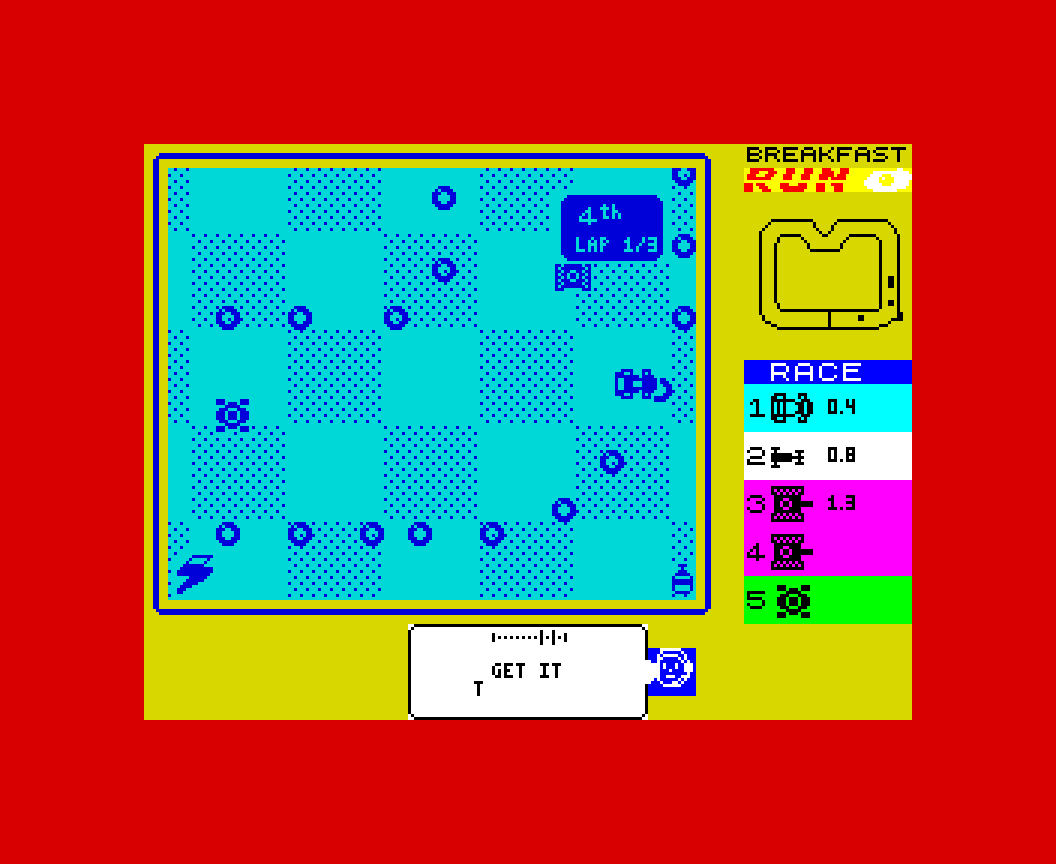
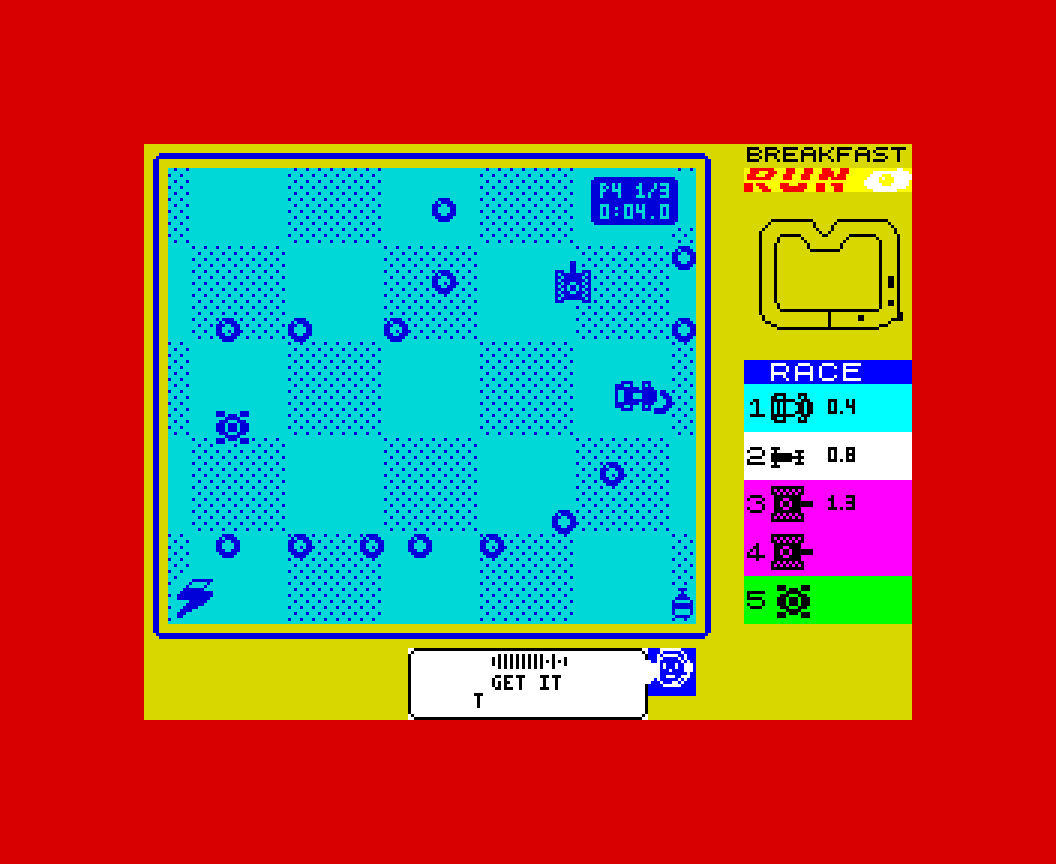
The window a row taller: 176 x 152
The buffer-strip tables moved to the top of the room under 0x8000 (LOWTAB); the frame,
gauge, NOS canisters, bubble (three rows) and strip moved down a row; the copier is 152
lines. Alone: 200 pictures at 3 frames / 113 at 4. All tests pass.

Claude-Session: https://claude.ai/code/session_01476U86GiAC8cKs57wAJvc3

diff --git a/tests/drive_test.py b/tests/drive_test.py
@@ -116,12 +116,12 @@ def screen_text(sp, row, col, n):
 
 def frame_ok(sp):
     # the slim frame (layout G3): a 2-pixel line, rounded, 3 pixels of table inside it
-    bits = screen_bits(sp)
-    lines = bits[3, 5:187].all() and bits[4, 4:188].all() and bits[155, 4:188].all() and bits[156, 5:187].all()
-    sides = bits[5:155, 3:5].all() and bits[5:155, 187:189].all()
-    gap = not bits[5:8, 5:187].any() and not bits[152:155, 5:187].any() and not bits[8:152, 5:8].any() and not bits[8:152, 184:187].any()
-    outside = not bits[0:3, 0:192].any() and not bits[3, 0:5].any() and not bits[157:160, 0:192].any() and not bits[5:155, 0:3].any()
-    attrs = all(sp.read8(0x5800 + c) == 0x31 for c in range(24)) and sp.read8(0x5800 + 19 * 32) == 0x31
+    bits = screen_bits(sp); B = WY + WH + 3                # (its bottom line: 3 pixels under the window)
+    lines = bits[3, 5:187].all() and bits[4, 4:188].all() and bits[B, 4:188].all() and bits[B + 1, 5:187].all()
+    sides = bits[5:B, 3:5].all() and bits[5:B, 187:189].all()
+    gap = not bits[5:8, 5:187].any() and not bits[B - 3:B, 5:187].any() and not bits[8:B - 3, 5:8].any() and not bits[8:B - 3, 184:187].any()
+    outside = not bits[0:3, 0:192].any() and not bits[3, 0:5].any() and not bits[B + 2:B + 4, 0:88].any() and not bits[5:B, 0:3].any()
+    attrs = all(sp.read8(0x5800 + c) == 0x31 for c in range(24)) and sp.read8(0x5800 + (B // 8) * 32) == 0x31
     return bool(lines and sides and gap and outside and attrs)
 
 class Racer(Spectrum):
@@ -160,11 +160,11 @@ def cloth(camx, camy):
 def window_bad(sp):
     at_copy_done(sp)
     camx, camy = g(sp, 'camx'), g(sp, 'camy')
-    bits = screen_bits(sp)[WY:152, 8:184]            # the window: cells 1-22, rows 3-18
+    bits = screen_bits(sp)[WY:WY + WH, 8:184]        # the window: cells 1-22
     want = world[camy:camy + WH, camx:camx + 176] | (cloth(camx, camy) & ~wmask[camy:camy + WH, camx:camx + 176])
     mask = np.ones_like(want, dtype=bool)
     mask[8 - WY:32 - WY, 56 - 8:136 - 8] = False     # the start lights (row 1's rail, rows 2-3's lamps)
-    mask[139 - WY:151 - WY, 160 - 8:184 - 8] = False  # the NOS canisters in the corner
+    mask[WH - 13:WH - 1, 160 - 8:184 - 8] = False     # the NOS canisters in the corner
     mask[WH - 17:WH, 0:24] = False                    # the health gauge in the other corner
     mask[2:20, 136:176] = False                       # your place on its plate, in the top right corner
     mask[21:34, 128:176] = False                      # ... and its message's plate
@@ -201,8 +201,8 @@ with Racer(headless=True) as sp:
     print('message bar %r' % msg)
     check(msg.strip(' /') == '', 'under the window, bottom left: nothing any more - no scoreboard (%r)' % msg)
     sb = screen_bits(sp)                            # the driver strip under the window
-    check(all(attr(r, c) == 0x30 for r in (20, 21, 22, 23) for c in range(0, 10)) and attr(21, 21) == 0x4F and attr(22, 22) == 0x4F
-          and not sb[160:192, 0:88].any() and sb[168:184, 168:184].any(),
+    check(all(attr(r, c) == 0x30 for r in (21, 22, 23) for c in range(0, 10)) and attr(21, 21) == 0x4F and attr(22, 22) == 0x4F
+          and not sb[168:192, 0:88].any() and sb[168:184, 168:184].any(),
           'under the window: plain table bottom left (your place and lap are on the plate in the window); the crew chief on blue')
     check(sb[140:150, 176:184].any() and attr(17, 22) == 0x29, 'your NOS canister is shown in the window\'s corner, in the window\'s colours')
     check(all(attr(TOWER_Y + 2 * i, 26) == [0x57, 0x68, 0x78, 0x58, 0x60][i] for i in range(5)), 'the whole race order is drawn at the start in grid order (YOU, CYAN, WHITE, PINK, GREEN), each car on its colour')
@@ -244,9 +244,9 @@ with Racer(headless=True) as sp:
     check(fps >= 12.5, 'at least 12.5 pictures a second off the start, five cars bunched (got %.1f)' % fps)
     check(all(car(sp, i)['x'] > CPU0X + 30 for i in CPUS), 'pressing Q started the race: all four computer cars set off')
     sb = screen_bits(sp)
-    check(attr(20, 11) == 0x78 and attr(23, 20) == 0x78 and attr(21, 10) == 0x30
-          and sb[160, 90:166].all() and sb[191, 90:166].all() and sb[172:184, 90:166].any(),
-          'at the green light the crew chief talks: his bubble fills columns 11-20, rows 20-23, words in it')
+    check(attr(21, 11) == 0x78 and attr(23, 20) == 0x78 and attr(21, 10) == 0x30 and attr(20, 11) == 0x31
+          and sb[168, 90:166].all() and sb[191, 90:166].all() and sb[176:188, 90:166].any(),
+          'at the green light the crew chief talks: his bubble fills columns 11-20, rows 21-23 (under the frame), words in it')
     check(attr(2, 8) == 0x29 and attr(1, 7) == 0x29 and sp.read8(SYM['lt_on']) == 0, 'the start lights have gone, their cells the window\'s colours again')
     check((sb[172:180, 168] == 1).all() and sb[175, 168:172].all(), "the bubble's tail is a point in the chief's panel")
     press(sp, 'Q', True); at_copy_done(sp); pc_ = car(sp, 0); press(sp, 'Q', False)
@@ -255,7 +255,7 @@ with Racer(headless=True) as sp:
 
     sp.run(duration=0.6, fast_forward=True)
     bar = screen_text(sp, 22, 1, 9) + '|' + screen_text(sp, 23, 1, 9)
-    check(not screen_bits(sp)[160:192, 0:88].any() and attr(20, 4) == 0x30, 'racing: still nothing bottom left')
+    check(not screen_bits(sp)[168:192, 0:88].any() and attr(21, 4) == 0x30, 'racing: still nothing bottom left')
     check(not screen_bits(sp)[TOWER_Y * 8:TOWER_Y * 8 + 80, 240:248].any(), 'the race order no longer shows a lap digit on each row')
 
     # ---- park your car in the infield and watch the computer race 90 s ----
@@ -308,10 +308,10 @@ with Racer(headless=True) as sp:
         if sp.read8(SYM['msg_st']) == 0: break       # checked into one)
         sp.run(duration=0.1, fast_forward=True)
     sb2 = screen_bits(sp)
-    if sb2[160:184, 88:168].any() or attr(21, 12) != 0x30:   # (to see what is there)
-        ys, xs2 = np.nonzero(sb2[160:184, 88:168]); print('  strip ink rows', sorted(set(ys + 160))[:12], 'x', sorted(set(xs2 + 88))[:12], 'attr(21,12) %02X' % attr(21, 12))
+    if sb2[168:192, 88:168].any() or attr(21, 12) != 0x30:   # (to see what is there)
+        ys, xs2 = np.nonzero(sb2[168:192, 88:168]); print('  strip ink rows', sorted(set(ys + 168))[:12], 'x', sorted(set(xs2 + 88))[:12], 'attr(21,12) %02X' % attr(21, 12))
         shot(sp, 'bubble_debug.png')
-    check(sp.read8(SYM['msg_st']) == 0 and not sb2[160:184, 88:168].any() and attr(21, 12) == 0x30,
+    check(sp.read8(SYM['msg_st']) == 0 and not sb2[168:192, 88:168].any() and attr(21, 12) == 0x30,
           'the crew chief quiet: no speech bubble (radio state when first looked: %d)' % talking)
     check(place() == 5 and sp.read8(SYM['position']) == 5, 'parked while four cars race: your red row is 5th in the tower')
     # the four computer cars are in by now: the race order shows no faces while racing - a mini

diff --git a/tests/zxlap.py b/tests/zxlap.py
@@ -41,9 +41,8 @@ if os.environ.get('ALONE'):                     # the computer cars never leave 
     for i in range(1, 5): rpc('write', addr=SYM['cars'] + i * SYM['c_size'] + 19, value=0)   # lightest case: C_PACE 0)
 # the tables kept in the back buffer's bottom rows must come through a lap untouched (the taller
 # window once drew map tiles over them: "the road shape has broken", Grant, 14 Nov 2026)
-BUF = 0xC000; TABLES = {'messages (BUFA)': 0x1080, 'constants (BUFD)': 0x1380, 'messages (BUFE)': 0x1480,
-                        'letters (BUFF)': 0x1580, 'messages (BUFG)': 0x1680, 'messages (BUFH)': 0x1780}
-tables0 = {n: mem(BUF + a, 122) for n, a in TABLES.items()}   # (122 of 128: each strip's last 6 bytes take the interrupt's pushes)
+BUF = SYM['lowtab']; TABLES = {'constants (BUFD)': 0, 'letters (BUFF)': 128, 'messages (BUFH)': 256, 'messages (BUFG)': 384, 'messages (BUFE)': 512}
+tables0 = {n: mem(BUF + a, 128) for n, a in TABLES.items()}   # (since 14 Nov 2026 the tables are under 0x8000, not in the buffer's bottom rows)
 CARS = SYM['cars']
 x0 = w16(CARS + 1); wp = 0
 while wps[wp][0] < x0 + 30: wp += 1
@@ -67,7 +66,7 @@ while laps < 1 and fr < 1500:
             slow[(fr - f_last, vis, (r - 1) & 3)] += 1
         if 'mu_used' in SYM and mem(SYM['mu_ph'], 1)[0]: notes.append(mem(SYM['mu_used'], 1)[0])   # (only builds with the burst-a-picture ditty)
         r_last, f_last = r, fr
-broken = [n for n, a in TABLES.items() if mem(BUF + a, 122) != tables0[n]]
+broken = [n for n, a in TABLES.items() if mem(BUF + a, 128) != tables0[n]]
 rep = rpc('profile_report', top=20000)
 rpc('quit') if False else z.kill()
 labels = sorted((a, n) for n, a in SYM.items() if 0x5F00 <= a < 0xFFF0)
@@ -100,7 +99,7 @@ pics = sum(frames.values()) or 1
 total = rep['total_t_states']
 print('zxdev lap: %d TV frames, %d pictures, %.0f T a picture all told (3 frames = 209,664)' % (fr, pics, total / pics))
 print('TV frames per picture:', dict(sorted(frames.items())))
-print('PASS the tables in the buffer\'s bottom rows are untouched after the lap' if not broken else 'FAIL tables overwritten during the lap: %s' % ', '.join(broken))
+print('PASS the tables under 0x8000 are untouched after the lap' if not broken else 'FAIL tables overwritten during the lap: %s' % ', '.join(broken))
 if notes: print('the ditty: %d pictures with a note due, %d of them silent (no time to spare); average burst %.1f ms' % (len(notes), sum(1 for u in notes if u == 0), sum(notes) / len(notes) * 279 / 3500))
 if os.environ.get('SLOW'):
     print('pictures by (cars in view, HUD slot): at 3 frames / at 4 or more')

diff --git a/tools/make_strip.py b/tools/make_strip.py
@@ -38,12 +38,12 @@ TAIL = [0x80, 0xC0, 0xE0, 0xF0, 0xF0, 0xE0, 0xC0, 0x80]
 FACE_L = [int(''.join('1' if v == 'X' else '0' for v in CREW[j][:8]), 2) for j in range(4, 12)]
 with open(os.path.join(ROOT, 'src', 'strip_img.asm'), 'w') as f:
     f.write('; GENERATED by tools/make_strip.py - the driver strip, drawn once at the start\n')
-    f.write('; rows 160..191, 24 bytes each (columns 0-23), then 4 rows x 24 colours\nstrip_img:\n')
-    for y in range(160, 192):
+    f.write('; rows 168..191, 24 bytes each (columns 0-23), then 3 rows x 24 colours\nstrip_img:\n')
+    for y in range(168, 192):
         row = np.packbits(b[y, 0:192])
         f.write('        defb ' + ','.join('0x%02X' % v for v in row) + '\n')
     f.write('strip_attr:\n')
-    for r in range(20, 24):
+    for r in range(21, 24):
         f.write('        defb ' + ','.join('0x%02X' % a[r * 32 + c] for c in range(24)) + '\n')
 # the letters the game uses: A-Z then ! . - ' (a space is just a gap)
 CH = [chr(c) for c in range(ord('A'), ord('Z') + 1)] + ['!', '.', '-', "'"]
@@ -73,7 +73,7 @@ _maph = int(re.search(r'MAPH\s+equ\s+(\d+)', open(os.path.join(ROOT, 'src', 'wor
 # Each strip is 128 bytes of the back buffer's bottom rows (from buffer row 160: the rows above
 # are left for the tiles drawn past the window's last line), and its last 6 bytes are where the
 # interrupt's pushes land when it arrives just as the cloth fill finishes a line - so 122.
-AREAS = [('F', 'BUFF', 122), ('H', 'BUFH', 122), ('E', 'BUFE', 122), ('G', 'BUFG', 122), ('A', 'BUFA', 122),
+AREAS = [('F', 'BUFF', 128), ('H', 'BUFH', 128), ('E', 'BUFE', 128), ('G', 'BUFG', 128), ('A', 'BUFA', 0),
          ('T', 'TOPMEM', 16)]                          # (T: a few bytes at the top of memory)
 out = {k: [] for k, _, _ in AREAS}; used = {k: 0 for k, _, _ in AREAS}
 def put(k, text, n): out[k].append(text); used[k] += n

diff --git a/tests/title_test.py b/tests/title_test.py
@@ -159,7 +159,7 @@ with Racer(headless=True) as sp:
        'the attract sequence runs again, no race behind it')
     tap(sp, '1', 0.3, 2.0)
     sb = screen_bits(sp)
-    same = all((sb[y0:y1, x0:x1] == scr0[y0:y1, x0:x1]).all() for (y0, y1, x0, x1) in ((0, 8, 0, 256), (0, 64, 192, 256), (8, 152, 0, 8), (8, 152, 184, 192), (152, 160, 0, 192)))
+    same = all((sb[y0:y1, x0:x1] == scr0[y0:y1, x0:x1]).all() for (y0, y1, x0, x1) in ((0, 8, 0, 256), (0, 64, 192, 256), (8, 160, 0, 8), (8, 160, 184, 192), (160, 168, 0, 192)))
     ok(frame_ok(sp) and same and sp.read8(SYM['race_on']) == 0 and car(sp, 0)['vx'] == 0,
        '1: a new race on the grid; the race screen put back whole (frame, logo, mini-map)')
     t = go_green(sp); sp.run(duration=1.0, fast_forward=True); press(sp, 'Q', False)

diff --git a/CONTINUE.md b/CONTINUE.md
@@ -1,9 +1,9 @@
 # CONTINUE - Breakfast Run
 
-**Stamped:** 2026-11-14 20:24 SAST · machine: Claude cloud container · branch: claude/breakfast-run-layout-ik0vpe (not yet merged to main) · commit: see `git log -1`
+**Stamped:** 2026-11-14 21:17 SAST · machine: Claude cloud container · branch: claude/breakfast-run-layout-ik0vpe (not yet merged to main) · commit: see `git log -1`
 **Lifecycle:** Active
 
-**Status:** Track 1, BREAKFAST AT TIFFANY'S. Small 16 x 16 cars; the window 176 x 144 in a slim
+**Status:** Track 1, BREAKFAST AT TIFFANY'S. Small 16 x 16 cars; the window 176 x 152 (19 rows, since 14 Nov late) in a slim
 blue frame; LAYOUT G3 BUILT (docs/design/g3_built.png): logo top right, the mini-map under it, the
 race order rows 10-19, bottom left your face and big place in a red block with a white strip (PRESS
 Q / LAP n/3 / FINAL LAP / FINISHED!) and the time, the crew chief's bubble (rows 20-23), the L2
@@ -14,7 +14,7 @@ start (not shown on screen). `bash build.sh` -> build/racer.tap.
 **Speed:** tests/zxlap.py (zxdev). Now: 3 frames x 301, 4 x 12; 15.5 pictures a second off the
 grid. Grant, 14 Nov: "speed of the game is good" - no speed hunt owed.
 
-**Memory:** 137 bytes free in the program (code_end 0xBF77; code added before sq4.asm's include costs a whole page when it crosses one - add after faces.asm); about 2,000 bytes free under 0x8000 (contended memory: data, and code that runs rarely - plate_slow.asm is there); none in the table block at 0x5B4C.
+**Memory:** 140 bytes free in the program (code_end 0xBF74; code added before sq4.asm's include costs a whole page when it crosses one - add after faces.asm); about 1,300 bytes free under 0x8000 below LOWTAB (0x7D40: the tables that were buffer strips; contended memory - data, and code that runs rarely); the top-of-memory data has 3 bytes to spare; none in the table block at 0x5B4C.
 
 **Next step:** MUSIC IN THE RACE - Grant wants it to "come through during the game"; every
 beeper version tried on 14 Nov was "background beeping" and cost speed, so it is off (OPT_MUSIC).

diff --git a/PROJECT-LOG.md b/PROJECT-LOG.md
@@ -1546,3 +1546,21 @@ Authoritative log for this workstream (house rule 5.2). Newest at the bottom. Ti
   blue round them; 6 pixels in from the window's right edge and 3 down from its top (pl_bmp 5
   bytes x 18 rows; PL_B, PL_W, PL_H). The message's plate moved up under it (PL_M, PL_MT).
   zxlap alone: 240 pictures at 3 frames / 79 at 4.
+
+## 2026-11-14 SAST (late) - the window a row taller: 176 x 152
+- Grant: "a crazy thought. We don't really use the bottom area at all except for the pit crew
+  talks. Could we try one more row underneath in the gameplay." And: "the pit area can be reduced
+  by a row."
+- WIN_H 152 (19 character rows). What moved: the frame's bottom line (lines 163-164), the health
+  gauge and the NOS canisters (a row lower in the buffer), the crew chief's bubble (three rows,
+  21-23: its top line 168, the wave rows 169-175, the words at 177 and 183), the strip's fixed
+  picture (rows 168-191, colours rows 21-23), the copy routine (152 lines: it ends 0xFD62,
+  TOPMEM 0xFD70 - the top-of-memory data now ends 3 bytes short of the interrupt jump).
+- The tables that sat in the buffer's bottom rows (BUFA-BUFH: the messages, the small letters,
+  thrust, the driving styles) and BUFC's race variables are now at LOWTAB = 0x7D40, the top 704
+  bytes of the room under 0x8000: the tiles drawn past the window's last line need buffer rows
+  160-167, where the strips began. cloth_pat and PNUM stay in the buffer (rows 176 on). The
+  strips' "last 6 bytes" rule is gone with them.
+- Speed (zxlap): alone 200 pictures at 3 frames / 113 at 4 (it was 240 / 79 at 144 lines); in
+  the pack 14 / 250 / 1. Eight more lines are 5.5% more to fill, draw and copy.
+- Tests updated for the new positions (frame_ok, the window check, the bubble); all pass.
